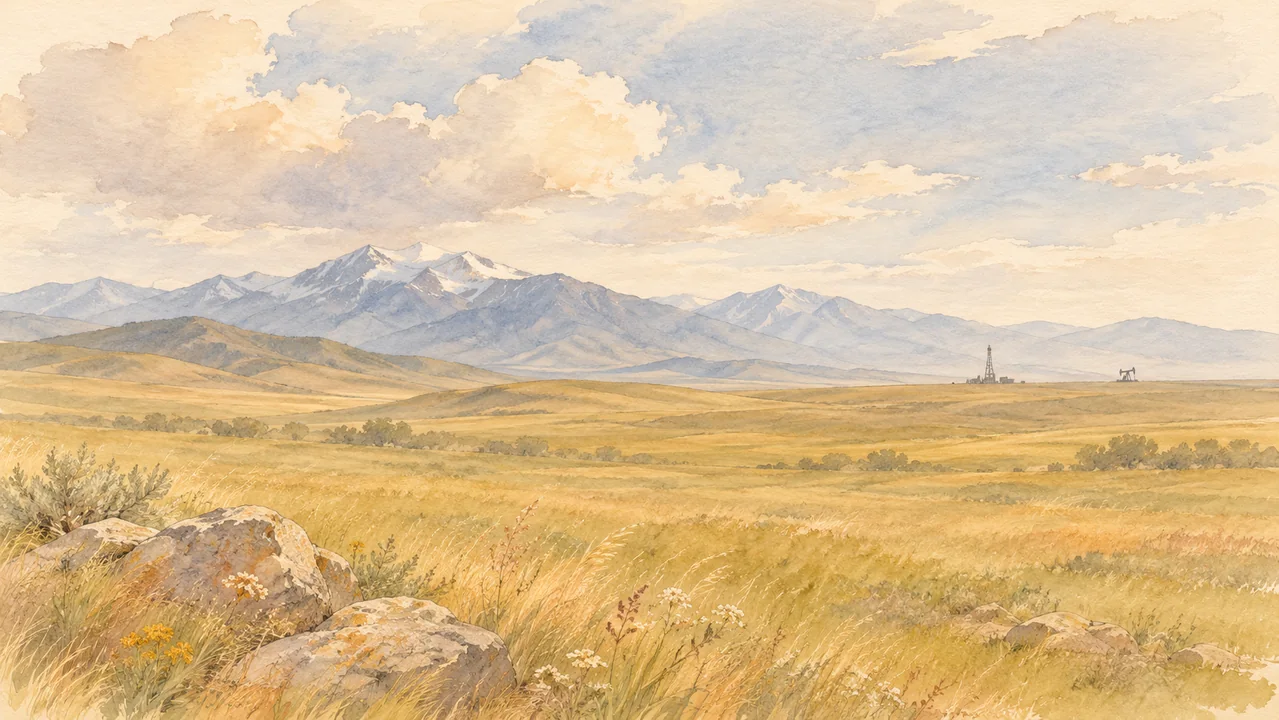
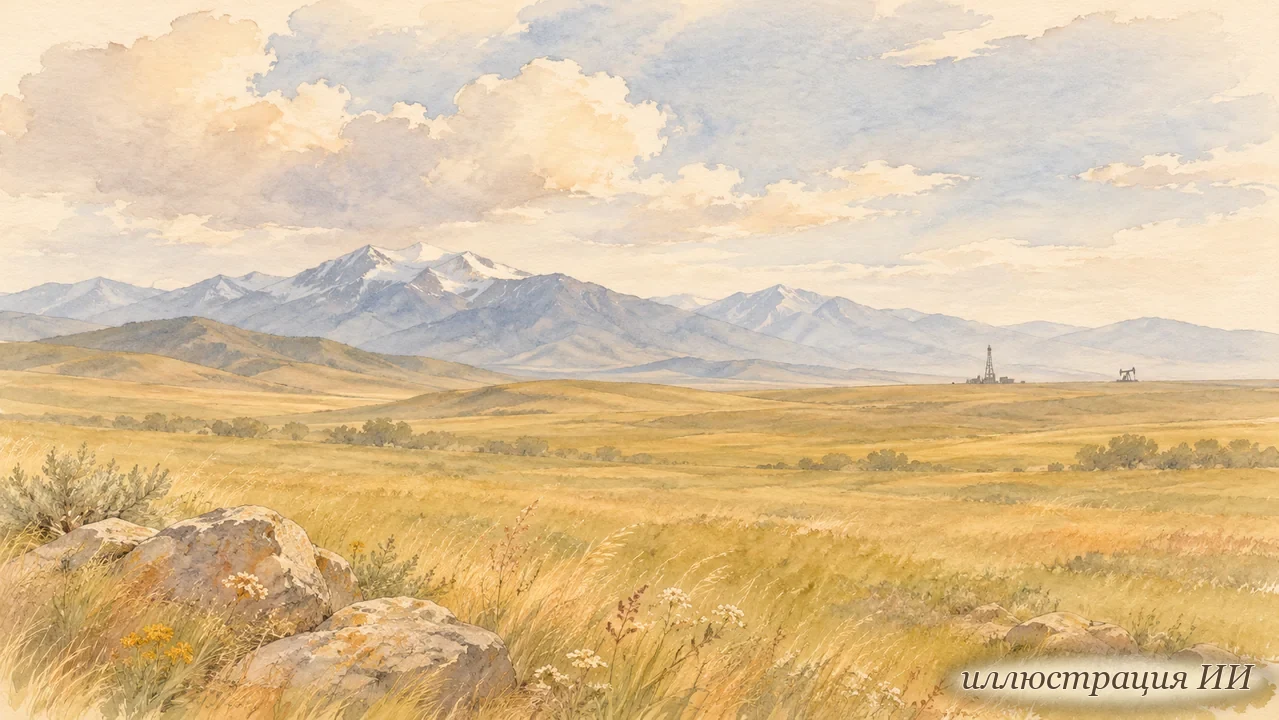
Вписать мягкую подпись ИИ в акварели обзора и шага

Changed region(s): [[0.7318, 0.8861, 1.0, 1.0]]

diff --git a/course/theme.css b/course/theme.css
@@ -659,10 +659,10 @@ button { min-width: 44px; }
 .hero-illustration {
   min-width: 0;
   height: clamp(200px, 27vw, 330px);
-  background: var(--art-cover) center 55% / cover no-repeat;
+  background: var(--art-cover) right bottom / cover no-repeat;
 }
-:root[data-theme="dark"] .hero-illustration { filter: brightness(.85); }
-/* Пейзаж шага сохранён; плашка снята по явной просьбе пользователя. */
+/* Изображение не затемняется: вписанная подпись остаётся контрастной в обеих темах. */
+/* Впечатанная подпись в стиле рисунка, без рамки и жёсткой плашки. */
 html[data-art~="hills"] .step-plate { padding-top: 0; background: var(--paper); }
 html[data-art~="hills"] .step-plate::before {
   content: "";
@@ -716,4 +716,9 @@ sub, sup { font-size: 1rem; }
 @media (max-width: 760px) {
   .hero-stats { display: grid; grid-template-columns: repeat(2, minmax(0, 1fr)); gap: 1rem; }
   .hero .stat { padding: .2rem .6rem .2rem 0; border-right: 0; }
+}
+
+@media (max-width: 760px) {
+  html[data-art~="cover-mobile"] .hero-illustration { background-image: var(--art-cover-mobile); }
+  html[data-art~="hills-mobile"] .step-plate::before { background-image: var(--art-hills-mobile); }
 }

diff --git a/course/build.py b/course/build.py
@@ -630,7 +630,7 @@ def html_page(layer: dict[str, Any], tasks_data: dict[str, Any], routes: Any, il
 
     domain_data = load_domain(chapter_domain(str(layer.get("chapter", "")), domain))
     tokens = domain_tokens(domain_data)
-    art_style, art_names = art_css(domain_data["folder"], slots=("cover", "hills"))
+    art_style, art_names = art_css(domain_data["folder"], slots=("cover", "cover-mobile", "hills", "hills-mobile"))
     overview_art = ('<div class="hero-illustration" aria-hidden="true"></div>'
                     if "cover" in art_names else "")
     _SCANS.clear()
